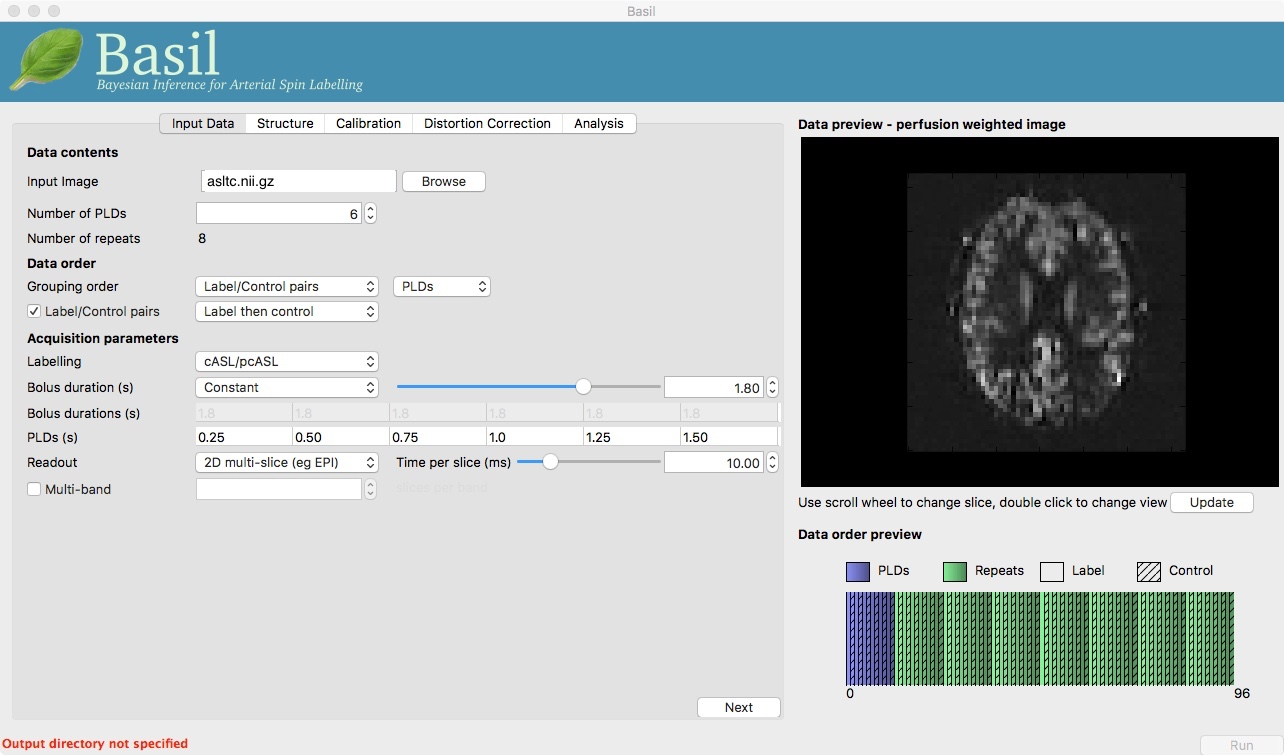
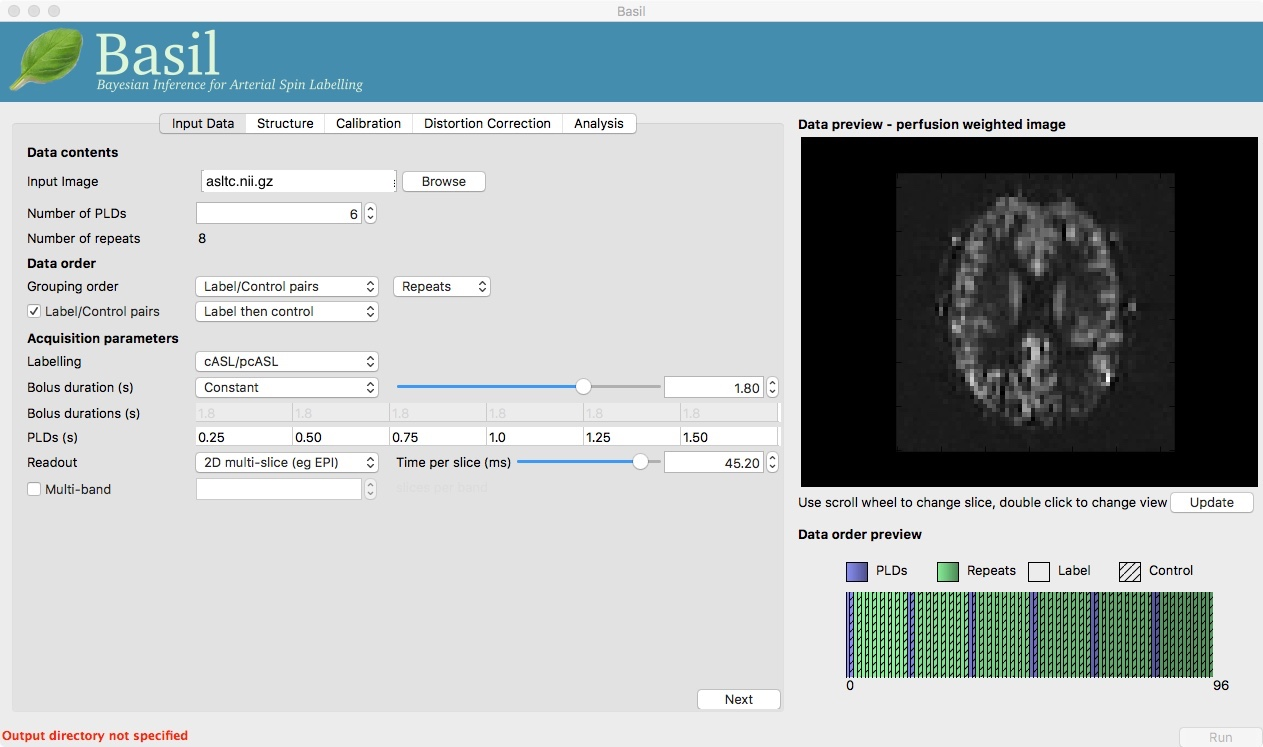
Correct the ordering instructions for the multi-PLD data and provide some indication to readers about skipping ahead while things are running.

diff --git a/index.html b/index.html
@@ -35,7 +35,7 @@ window.onload=function() {
 <h1 class="centred">Arterial Spin Labelling Practical</h1>
 
 <p>In this practical you will learn how to use the BASIL tools in FSL
-  to analyse ASL data, specifically to obtain quantiative images of
+  to analyse ASL data, specifically to obtain quantitative images of
   perfusion (in units of ml/100 g/min), as well as other haemodynamic
   parameters. For the puproses of the practical you will be instructed
   to use the BASIL GUI, all of the same analyses (and more) can be
@@ -50,7 +50,7 @@ window.onload=function() {
   http://www.neuroimagingprimers.org/examples/introduction-primer-example-boxes/
   </p>
 
-  <p> NOTE that if you are follwing this practial outside of the FSL
+  <p> NOTE that if you are following this practial outside of the FSL
   course you should ensure you are using the pre-release of BASIL
   alongside a recent version of FSL v5. This can be found by following
   a link from the FSL website:
@@ -68,7 +68,7 @@ window.onload=function() {
   single PLD pcASL</a></dt>
 
   <dd>Revisiting the singe PLD pcASL data, but producing an improved
-  perfusion image, resigrating to structural and standard space, and
+  perfusion image, registration to structural and standard space, and
   exploring more advanced analyses. </dd>
 
   <dt> <a href="#multipld">3: Perfusion Quantification (and more) using
@@ -88,8 +88,7 @@ Multi-PLD pcASL</a></dt>
   with one of the most widely recommened variants of ASL. Single PLD
   pcASL is now regarded as sufficiently simple and reliable, both for
   acquisition and analysis, that it is the first option most people
-  should consider when using ASL for the first time in a
-  study. Although more can be done with other ASL variants,
+  should consider when using ASL for the first time. Although more can be done with other ASL variants,
   particularly when acquisition time allows.</p>
 
   <h3>The data</h3>
@@ -104,7 +103,8 @@ Multi-PLD pcASL</a></dt>
   <p>This dataset used <b>pcASL labeling</b> and we are going to start
   with data collected using a <b>single post-label
   delay</b>. This dataset follows as closely as possible the
-  recommendations of the ASL Consensus Paper on a good general purpose
+  recommendations of the ASL Consensus Paper (commonly called the
+  'White Paper') on a good general purpose
   ASL acquisition, although we have chosen to use a 2D mutli-slice
   readout rather than a full-volume 3D readout.</p>
 
@@ -132,13 +132,8 @@ Multi-PLD pcASL</a></dt>
   ensure you know exactly what you are dealing with. </p>
   <list> There are two
   separate files that contain the ASL data we need:
-  <li>asltc - this contains 60 volumes and is repeated
-  measurements of alternating label and control images (in that
-  order).</li>
-  <li>aslcalib - this is the calibration image (only a single volume),
-  it is effectively a proton density image acquired with the same
-  readout as the ASL data. In this case the TR was 4.8 seconds, which
-  means there will be some T1 weighting that we might want to correct for.</li>
+  <li><code>spld_asltc.nii.gz</code></li>
+  <li><code>aslcalib.nii.gz</code></li>
   </list>
 
 <p>View these images in fsleyes:</p>
@@ -173,7 +168,7 @@ fsleyes aslcalib.nii.gz -dr 0 1500 spld_asltc.nii.gz -dr 0 1500
 <p>  To launch the GUI at the command line you will need to type
   <code>asl_gui</code>. Note that if you have downloaded the
   'pre-release' yourself, you may need to provide a path to the
-  installed version of the GUI, e.g. <code>/Users/{blah}/Downloads/oxford_asl/asl.gui</code></p>
+  installed version of the GUI, e.g. <code>/Users/{blah}/Downloads/oxford_asl/asl_gui</code></p>
 
   <p>Once it has launched you
   will find yourself on the 'Input Data' tab, you
@@ -186,11 +181,15 @@ fsleyes aslcalib.nii.gz -dr 0 1500 spld_asltc.nii.gz -dr 0 1500
   <li>Click the 'Update' button beneath the 'Data Preview' pane on the right.</li>
   </list>
 
-  <p> At this point the GUI should look like the screen shot below and
+  <p> At this point the GUI should look like the screen shot below* and
   a PWI will have appeared in the 'Data Preview' pane. This this is reassuring, if we didn't see something that
   looks roughly like this, we might check if the data order that the
   GUI is expecting matches that in the data. We could alter the 'Data
   order' settings if needed and update the preview again. </p>
+
+  <p>* If the image does not update automatically after clicking
+  'Update' try re-sizing the GUI window slightly and that should force
+  it to redraw.</p>
 
   <img src="PWI.jpeg" alt="BASIL GUI previewing perfusion-weighted
   image" width=900>
@@ -252,15 +251,18 @@ image to get values in the units of ml/100g/min.</p>
   <p>On the 'Analysis' tab, choose an output directory name, e.g.,
   <code>oxasl</code>. And, select 'Analysis which conforms to White
   Paper', so that we know the analysis is using the same default
-  parameter values proposed in the ' ASL White Paper' quantification
+  parameter values proposed in the 'ASL White Paper' quantification
   formula. Note that in the lower left corner the GUI is now telling
   us that we are 'Ready to Go'. At this point you can click 'Run' in
   the lower right corner.</p>
 
   <img src="Analysis.jpeg" alt="BASIL GUI Analysis" width=900>
-  
 
-<p>To view the final result:</p>
+  <p><i>This analysis should only take a few minutes, but while you are
+  waiting you can read ahead and even start changing the options in
+  the GUI ready for the next analysis that we want to run.</i></p>
+
+<p>Once the analysis had completed, view the final result:</p>
 <pre class="bash">
 fsleyes oxasl/native_space/perfusion_calib.nii.gz
   </pre>
@@ -304,16 +306,26 @@ repeat the setup - but do not click run).</p>
   have 'Adaptive spatial regularisation on perfusion' selected (it is
 by default). This will reduce the appearance of noise in the final
   perfusion image using the
-  minimum amount of smoothing appropriate for the data. Now click 'Run'.</p>
+minimum amount of smoothing appropriate for the data.</p>
+
+<p>You might like
+  the change the name of the output directory at this point, so that
+  you can comapre to the previous analysis.</p>
+
+<p>Now click 'Run'.</p>
 
  <img src="Analysis2.jpeg" alt="BASIL GUI Analysis" width=900>
   
 <p>For this analysis we are still in 'White
-Paper' mode.Specifically this means we are using
-  simplest kinetic model that assumes all delivered blood-water has
-  the same T1 as that of blood (see Chapter 4 of the ASL primer for
-  more information) and that the Arterial Transit Time should be
-  treated as 0 seconds.</p>
+Paper' mode. Specifically this means we are using
+  the simplest kinetic model, which assumes that all delivered blood-water has
+  the same T1 as that of the blood and that the Arterial Transit Time should be
+treated as 0 seconds.</p>
+
+<p><i>As before, the analysis should only take a few minutes, slightly
+longer this time due to the distortion and motion correction. Like the
+last exercise you might want to skip ahead and start setting up the
+next analysis.</i></p>
 
 <p>To view the final result:</p>
 <pre class="bash">
@@ -322,13 +334,13 @@ fsleyes oxasl/native_space/perfusion_calib.nii.gz
 
 <p>The result will be similar to the analysis in <a href="../ex1GUI/index.html"
   target="dynamic">Example 1</a> although the effect of distortion
-  correction should be noticeable in the anterior protion of the
+  correction should be noticeable in the anterior portion of the
   brain. The effects of motion correction are less obvious, this
 data does not have a lot of motion corruption in it.</p>
 
  <h3>Making use of Structural Images</h3>
 
-  <p>Thus far all of the analyses have relied purely on the ASL data
+  <p>Thus far, all of the analyses have relied purely on the ASL data
   alone. However, often you will have a (higher resolution) structural
   image in the same subject and would like to use this as well, at the
   very least as part of the process to transform the perfusion images into some
@@ -345,15 +357,18 @@ you and you will find the output in the data directory as <code>~/fsl_course_dat
 
 <p>Go back to the analysis you have setup above. On the 'Structure'
 tab, for 'Structural data from' select 'Existing FSL_ANAT
-output'. Then for the 'Existing FSL_ANAT output' choose <code>T1.anat</code>.</p> 
+output'. Then for the 'Existing FSL_ANAT output' choose
+<code>T1.anat</code>.</p> 
 
    <img src="Struct.jpeg" alt="BASIL GUI Structure" width=900>
 
-  <p>This analysis will take longer overall, although the extra time
-  is taken up doing registration between ASL and structural
-  images. 
+  <p><i>This analysis will take somewhat longer overall (potentailly
+  15-20 mins), the extra time
+  is taken up doing careful registration between ASL and structural
+  images. Thus, this is a good point to keep reading on and leave the
+  analysis runnning.</i></p>
 
-  <p>You will now find some new results in the output
+  <p>You will find some new results in the output
   directory:</p>
   <list>
   <li> <code>oxasl/struct_space</code> - this sub-drectory contains results
@@ -384,7 +399,7 @@ images with and without calibration.</li>
   data.</li>
   </list>
 
-  <h3>Reference Tissue Calibration</h3>
+  <h3>Different model and calibration choices</h3>
   
   <p>Thus far the calibration to get perfsion in units of ml/100g/min
   has been done using a voxelwise division of the realtive perfusion
@@ -392,7 +407,7 @@ images with and without calibration.</li>
   'voxelwise' calibration. This is in keeping with the recommendations
   of the ASL White Paper for a simple to implement quantitative
   analysis. However, we could also choose to use a reference tissue to
-  derive a single value for the equilirbirum mangetization of arterial
+  derive a single value for the equilibrium magnetization of arterial
   blood and use that in the calibration process.</p>
 
   <p>Go back to the analysis you have already set up. We are now going
@@ -427,7 +442,13 @@ the mask you would get if you ran the analysis as setup above).</li>
 <li> Go back to the 'Structure' tab and choose 'None' for 'Structural
   data from'. This will turn off all of the registration
 processes.</li>
-</list>
+<li> You might also like to choose a different output directory name,
+  so that you can comapre with the previous analysis.</li>
+  </list>
+
+  <p><i>While this is running you might want to read ahead, or if you
+  are keen to keep moving through the examples, then skip this
+  analysis and keep going.</i></p>
 
   <p>The resulting perfusion images should look very similar to those
   produced using the voxelwise calibration, and the absolute values
@@ -445,11 +466,10 @@ and not on the boundary with white matter.</p>
 
 <h3>Partial Volume Correction</h3>
 
-  <p>Having dealt with structural image and in the process obtained
-  partial volume estimates we are now in a position to do partial
+  <p>Having dealt with structural image, and in the process obtained
+  partial volume estimates, we are now in a position to do partial
   volume correction. This does more than simply attempt to estimate
-  the mean perfusion within the grey matter by the definition of an
-  ROI based on the partial voume estimates, but attempts to derive and
+  the mean perfusion within the grey matter, but attempts to derive and
   image of gray matter perfusion directly (along with a separate image
   for white matter).</p>
 
@@ -501,13 +521,16 @@ ATT in its own right, as well as arterial blood volumes.</p>
   <p><list>The files you will also now need are:
   <li><code>mpld_asltc.nii.gz</code> - the label-control ASL series
   containing 96 volumes: each PLD was repeated 8 times, thus there are
-  16 volumes (label and control paired) for each PLD. The order in
-  which these was collected was a full set of PLD, followed
-  by another, etc.</li>
+  16 volumes (label and control paired) for each PLD. The data has
+  been re-ordered from the way it was acquired, such that all of the
+  measurements from each PLD have been grouped together - it is
+  important to know this data ordering when doing the analysis. </li>
 
    <h3>Perfusion Quantification </h3>
 
-  <p>Load the GUI (<code>Asl</code> or <code>Asl_gui</code>). On the
+  <p>Load the GUI (<code>asl_gui</code>), it is best to start a
+  whole new analysis as we are moving on to a new set of data and not
+  reuse any GUI you already have open. On the
   'Input Data' tab, for the 'Input Image' load
   <code>mpld_asltc.nii.gz</code>. Unlike the single-PLD data, we need to specify the correct number
   of PLD, which is 6. At this point the 'Number of repeats' should
@@ -516,17 +539,40 @@ ATT in its own right, as well as arterial blood volumes.</p>
   the PLDs (and will thus look different to <a href="../ex1GUI/index.html"
   target="dynamic">Example 1</a>).</p>
 
+  <img src="Input2.jpeg" alt="BASIL GUI Input Data" width=900>
+
   <p>Note the 'Data order preview'. For mutli-PLD ASL it is important
   to get the data order specification right. In this case the default
-  options in the GUI are correct: the PLDs come as label-control
-  pairs, i.e. alternating label then control images; a full set of the
+  options in the GUI are not correct. The PLDs do come as label-control
+  pairs, i.e. alternating label then control images. But, the default
+  assumption in the GUI is that a full set of the
   6 PLDs has been acquired first, then this has been repeated 8
   subseqeunt times, this is indcated in the preview by colouring the
   first instance of a PLD as purple and subsequent as green, with
-  different PLDs appearing as different shase of purple (or
-green). Getting a plausible looking PWI is a good sign that the data
+  different PLDs appearing as different shades of purple (or
+  green). This is quite commonly how multi-PLD ASL data is acquired,
+  but that might not be how the data is ordered in the final image
+  file.</p>
+
+  <p>As we noted earlier, in this data all of the measurements at the
+  same PLD are grouped together. You need to change the 'Grouping
+  order' on the 'Input Data' tab: leave the first option along
+  ('Label/Control pairs') and change the second option from 'PLDs' to
+  'Repeats'. Note that the data order preview changes to reflect the
+  different ordering. This is now correct: remeber that the purple
+  coloured entries indicate the first time that PLD was acquired.</p>
+
+  <p>Note that if you were to click 'Update' on the 'Data preview' nothing
+  changes, the ordering doesn't affect the (simple) way in which we
+  have calucated the PWI. Getting a plausible looking PWI is a good sign that the data
   order is correct, but it is not a guarantee that the PLD ordering is
-  correct, so always check carefully.</p>
+  correct, so always check carefully. One way to do this, in this
+  case, would be to open the data in <code>fsleyes</code> and look at
+  the timeseries: the raw intensity of both label and control images
+  for one PLD are different to those from another PLD (due to the
+  background suprresion). THe timeseries for the raw data looks like a
+  series of steps, indicating the repeated measurements from each PLD
+  are grouped together (groubed by 'repeats').</p>
 
 <list>Once we are happy with the PWI and data order, we can set the
 'Acquisition parameters':
@@ -536,7 +582,6 @@ green). Getting a plausible looking PWI is a good sign that the data
 <li>Readout - '2D multi-slice' with 'Time per slice' 45.2.</li>
 </list>
 
-<img src="Input2.jpeg" alt="BASIL GUI Input Data" width=900>
 
 <p>Move to the 'Calibration' tab, select 'Enable Calibration' and as
 the 'Calibration Image' load the <code>aslcalib.nii.gz</code> image
@@ -550,13 +595,17 @@ leave all of the other options alone.</p>
 
 <img src="Calib3.jpeg" alt="BASIL GUI Calibration" width=900>
 
-<p>Move to the 'Distortion Correction' tab. Select 'Apply disotrion
+<p>Move to the 'Distortion Correction' tab. Select 'Apply distortion
 correction'. Load the 'Phase-encode-reveresed calibration image'
   <code>aslcalib_PA.nii.gz</code> from the Single-PLD pcASL data. Set the 'Effective EPI echo
 spacing' to 0.06 and the 'Phase encoding direction' to 'y'.</p>
 
 <p>Finally, move to the 'Analysis' tab. Choose an output directory,
 leave all of the other options alone. Click 'Run'.</p>
+
+<p><i>This analysis shouldn't take a lot longer than the equivalent
+single PLD analysis, but feel free to skip ahead tot he enxt section
+whilst you are waiting.</i></p>
 
   <p>The results directory from this analysis should look similar to
   that obtained for the single PLD pcASL. That is reassuring as it is the same subject. The main difference is the
@@ -578,7 +627,7 @@ appeared blank in that case.</p>
   imaging region. However, given we are using shorter PLD in our
   multi-PLD sampling to improve the SNR there is a much greater
   likelihood of arterial signal being present. Thus, we might like to
-repeat the analysis with this component included</p>
+repeat the analysis with this component included in the model.</p>
 
 <p>Return to your analysis from before. On the 'Analysis' tab select
 'Include macro vascular component'. Click 'Run'.</p>
